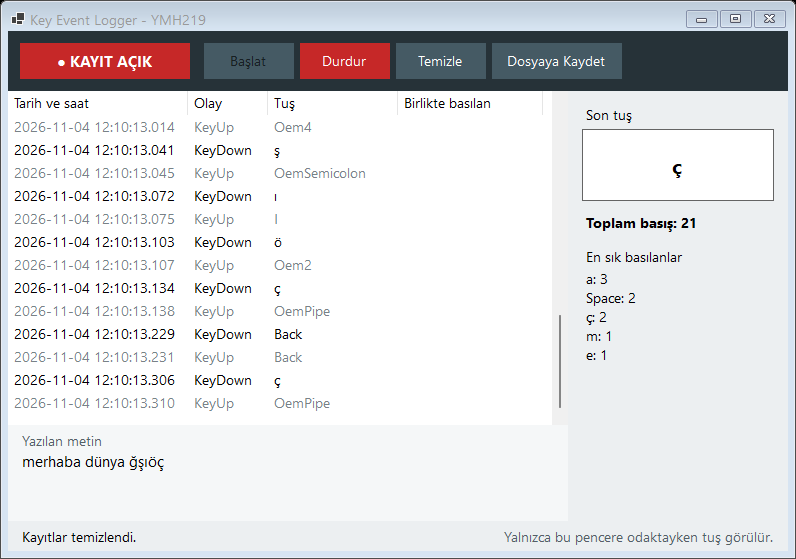
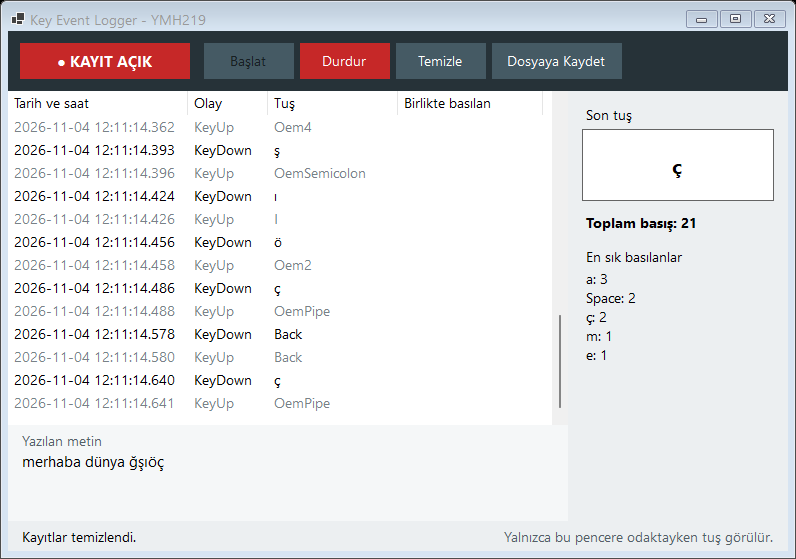
KeyUp satirlarinda da gercek karakteri goster

Changed region(s): [[0.1508, 0.2129, 0.2412, 0.7299]]

diff --git a/KeyEventLogger/KeyEventLog.cs b/KeyEventLogger/KeyEventLog.cs
@@ -56,7 +56,11 @@ public sealed class KeyEventLog
     public KeyEventRecord? Add(KeyEventKind kind, Keys key, Keys modifiers, DateTime time)
     {
         if (!IsRecording) return null;
-        var record = new KeyEventRecord(time, kind, key, modifiers);
+        // KeyUp için KeyPress gelmez; aynı tuşun karakteri basıldığı satırdan alınır.
+        char? character = kind == KeyEventKind.KeyUp
+            ? _records.FindLast(r => r.Kind == KeyEventKind.KeyDown && r.Key == key)?.Character
+            : null;
+        var record = new KeyEventRecord(time, kind, key, modifiers, character);
         _records.Add(record);
         return record;
     }

diff --git a/KeyEventLogger.Tests/Program.cs b/KeyEventLogger.Tests/Program.cs
@@ -46,7 +46,7 @@ void Press(Keys key, char character)
     typing.Add(KeyEventKind.KeyUp, key, Keys.None, time);
 }
 Press(Keys.Oem4, 'ğ');
-Check(typing.Records[0].KeyName == "ğ" && typing.Records[1].KeyName == "Oem4", "Türkçe harf KeyDown satırında görünür");
+Check(typing.Records[0].KeyName == "ğ" && typing.Records[1].KeyName == "ğ", "Türkçe harf KeyDown ve KeyUp satırında görünür");
 Check(typing.Records[0].ToString().EndsWith("| Oem4 | 'ğ'"), "dosya satırı karakteri içerir: " + typing.Records[0]);
 Press(Keys.I, 'ı');
 Press(Keys.Space, ' ');
